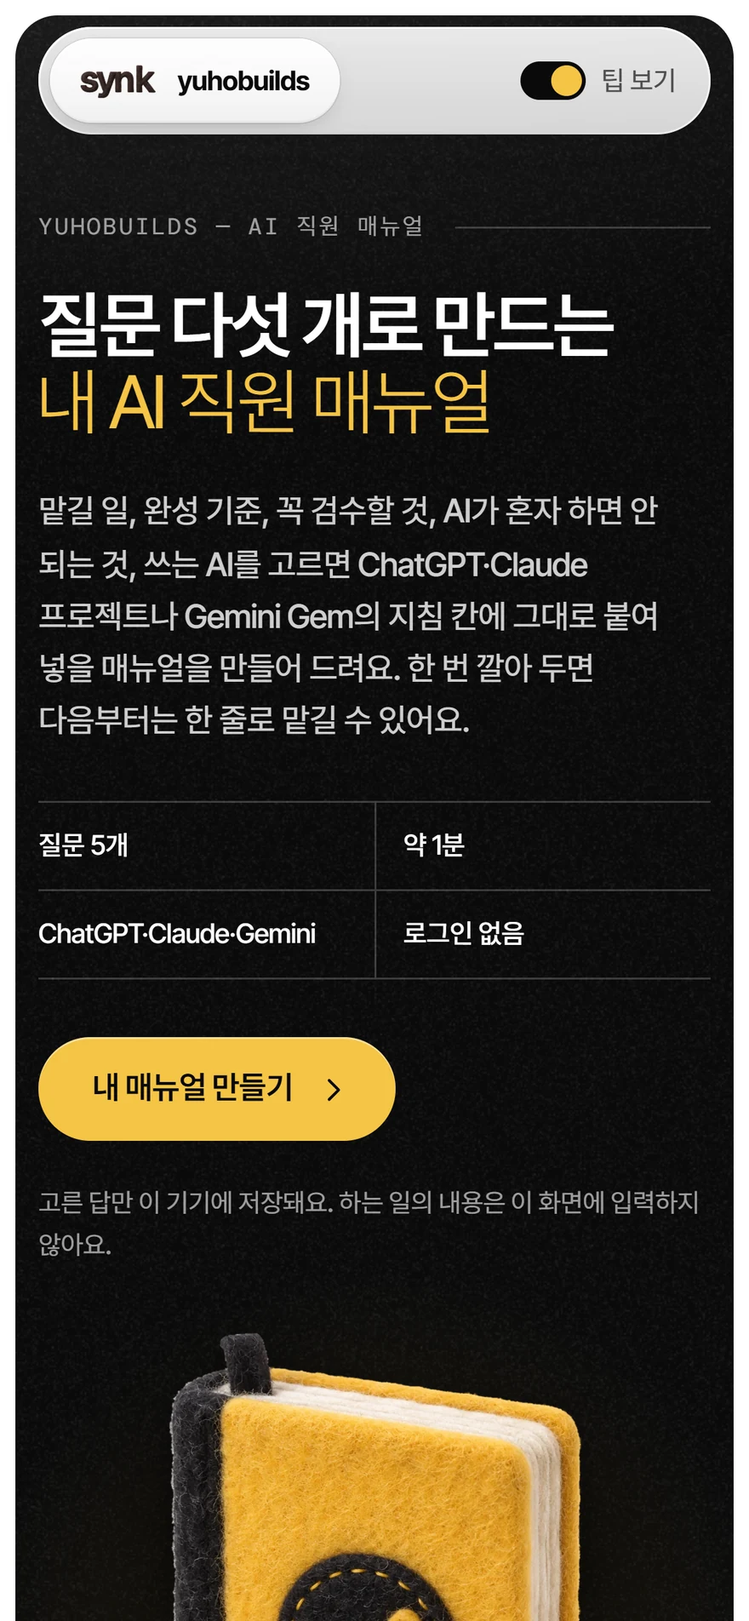
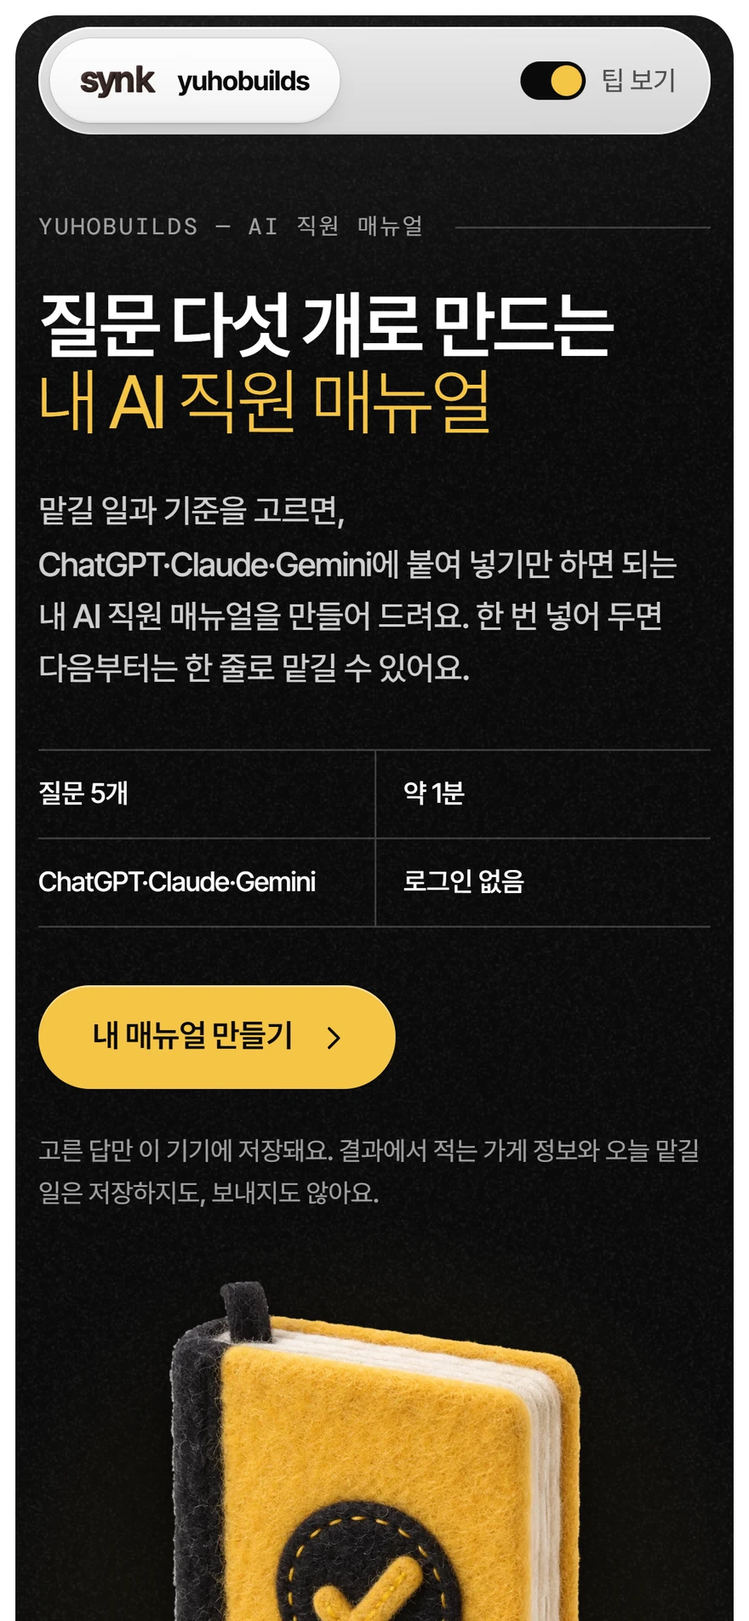
feat(tools): AI 직원 매뉴얼 — ChatGPT 넣어 두기 그림 안내, 영상 끝 화면 다시 찍어 렌더
- 유호님 10-07 새벽: 「나도 실제 앱 화면에 누를곳을 표시할 그림을 원해. 니가 컴퓨터 조작으로 캡쳐해도 좋아」, 「영상 끝 화면도 다시 찍어서 렌더할게」.
- 그림 안내(assets/gpt-guide-1~4.webp)
  - 유호님 계정의 웹 ChatGPT를 휴대폰과 비슷한 폭으로 찍었다. 장면은 사이드바의 ‘프로젝트’ 옆 +, 프로젝트 만들기, 오른쪽 위 ••• → 프로젝트 설정, 지침 칸이다.
  - 개인 항목(사용자 GPT·고정 대화·최근 대화·마우스 표시)은 가렸고, 누를 곳에 버터 테를 둘렀다.
  - 찍으려고 유호님 승인으로 「SNS 게시물 직원」 프로젝트를 하나 만들었고, 지침 칸은 비워 뒀다. 원본 캡처는 저장소에 넣지 않았다.
- 화면에서는 넣어 두기 ②·③ 단계 아래에 그림을 두었다. 그림을 누르면 크게 보이고, 그림 출처 한 줄이 붙는다.
- ChatGPT 단계 문구를 실제 화면에 맞췄다: ‘프로젝트’ 옆 + → 이름 → 프로젝트 만들기, 오른쪽 위 더보기(•••).
- 첫 화면 개인정보 문구: 「결과에서 적는 가게 정보와 오늘 맡길 일은 저장하지도, 보내지도 않아요」.
- 영상(yuhobuilds_한줄시켰더니)
  - v4 첫 화면을 다시 찍었다(녹화 스크립트를 v4 결과 화면에 맞춤, 05는 ‘01 써 보기’ 장면).
  - 설명이 짧아져 끝 화면 창의 내림을 -240 → -212로 바꿨다. 이제 시작 단추 윗부분이 창 아래에 걸리지 않는다.
  - A·B를 다시 렌더했다(47.5초). 45초 앞 장면은 이전 판과 같고(0.00%), 소리는 -13.9 LUFS, 최고 -1.5 dBFS 그대로다. 바탕화면 폴더에도 넣었다.
- 시험 67/67(매뉴얼 27 · 계정 5 · computer·meeting 35), 화면 동작 확인 23/23, 가시성 대비 미달 0 · 320px 넘침 0 · 초점 가림 0.

Changed region(s): [[0.0307, 0.3099, 0.9205, 0.7747], [0.2148, 0.7747, 0.7977, 1.0], [0.767, 0.9916, 0.7977, 1.0]]

diff --git a/docs/마케팅/맞춤도구/manual/view.js b/docs/마케팅/맞춤도구/manual/view.js
@@ -143,13 +143,16 @@
 
     const keepDone = multi ? '복사했어요. 이제 쓰는 AI의 지침 칸에 붙여 넣으세요.' : `복사했어요. 이제 ${rec.saves[0].where} 칸에 붙여 넣으세요.`;
     const copyStep = step(1, '매뉴얼을 복사해요', copyRow('manual', '매뉴얼 복사', '매뉴얼', keepDone));
-    const saveSteps = s => s.steps.map((x, i) => step(i + 2, esc(x.t), i === 0 ? `<div class="row opens">${openLink(s)}</div>` : '')).join('');
+    // 그림 안내(10-07): 그 단계 아래에 실제 화면. 누르면 원래 크기로 열린다.
+    const figs = (s, i) => ((s.guide && s.guide.figs) || []).filter(f => f.step === i).map(f => `<figure class="guide-shot"><a href="${esc(f.src)}" target="_blank" rel="noopener"><img src="${esc(f.src)}" width="${f.w}" height="${f.h}" loading="lazy" alt="${esc(f.alt)}"></a><figcaption>${esc(f.cap)}</figcaption></figure>`).join('');
+    const guideNote = s => (s.guide ? `<p class="guide-note">그림은 웹 ${esc(s.label)}를 휴대폰 크기로 찍은 화면이에요(${esc(s.guide.shot.replace(/-/g, '.'))}). 앱이나 화면 설정에 따라 색과 배치가 조금 다를 수 있어요. 그림을 누르면 크게 보여요.</p>` : '');
+    const saveSteps = s => s.steps.map((x, i) => step(i + 2, esc(x.t), `${i === 0 ? `<div class="row opens">${openLink(s)}</div>` : ''}${figs(s, i)}`)).join('');
     let keepBody;
     if (!multi) {
       const s = rec.saves[0];
-      keepBody = `<p class="what">${esc(s.what)}</p><ol class="usesteps">${copyStep}${saveSteps(s)}</ol><p class="path-note">잘 들어갔는지 보려면 그 ${esc(s.place)}의 새 채팅에서 “이 매뉴얼에서 내가 허락해야 하는 일을 말해 줘”라고 물어보세요. 사람 차례가 그대로 나오면 잘 들어간 거예요.</p>${s.note && !quick ? `<p class="path-note">${esc(s.note.t)}</p>` : ''}<p class="path-src">메뉴 순서는 ${esc(s.label)} 공식 도움말 기준이에요${badge(s.steps[0].src)} 화면 언어나 업데이트에 따라 이름이 조금 다를 수 있어요.</p>`;
+      keepBody = `<p class="what">${esc(s.what)}</p><ol class="usesteps">${copyStep}${saveSteps(s)}</ol>${guideNote(s)}<p class="path-note">잘 들어갔는지 보려면 그 ${esc(s.place)}의 새 채팅에서 “이 매뉴얼에서 내가 허락해야 하는 일을 말해 줘”라고 물어보세요. 사람 차례가 그대로 나오면 잘 들어간 거예요.</p>${s.note && !quick ? `<p class="path-note">${esc(s.note.t)}</p>` : ''}<p class="path-src">메뉴 순서는 ${esc(s.label)} 공식 도움말 기준이에요${badge(s.steps[0].src)} 화면 언어나 업데이트에 따라 이름이 조금 다를 수 있어요.</p>`;
     } else {
-      keepBody = `<p class="what">ChatGPT·Claude는 ‘프로젝트’, Gemini는 ‘Gem’이라는 일 전용 공간이 있어요. 그 공간의 지침 칸에 매뉴얼을 넣어 두면, 새 채팅을 열 때마다 AI가 먼저 읽어요.</p><ol class="usesteps">${copyStep}</ol>${rec.saves.map((s, j) => `<details class="appbox"${j === 0 ? ' open' : ''}><summary>${esc(s.label)}에 넣기</summary><ol class="usesteps">${saveSteps(s)}</ol></details>`).join('')}<p class="path-src">메뉴 순서는 각 AI의 공식 도움말 기준이에요${badge(rec.saves[0].steps[0].src)} 화면 언어나 업데이트에 따라 이름이 조금 다를 수 있어요.</p>`;
+      keepBody = `<p class="what">ChatGPT·Claude는 ‘프로젝트’, Gemini는 ‘Gem’이라는 일 전용 공간이 있어요. 그 공간의 지침 칸에 매뉴얼을 넣어 두면, 새 채팅을 열 때마다 AI가 먼저 읽어요.</p><ol class="usesteps">${copyStep}</ol>${rec.saves.map((s, j) => `<details class="appbox"${j === 0 ? ' open' : ''}><summary>${esc(s.label)}에 넣기</summary><ol class="usesteps">${saveSteps(s)}</ol>${guideNote(s)}</details>`).join('')}<p class="path-src">메뉴 순서는 각 AI의 공식 도움말 기준이에요${badge(rec.saves[0].steps[0].src)} 화면 언어나 업데이트에 따라 이름이 조금 다를 수 있어요.</p>`;
     }
     const keepPanel = `<div class="path" id="path-keep" role="tabpanel" aria-labelledby="tab-keep" data-panel="keep"${P === 'keep' ? '' : ' hidden'}>${keepBody}</div>`;
 

diff --git a/docs/마케팅/맞춤도구/manual/rules.js b/docs/마케팅/맞춤도구/manual/rules.js
@@ -111,9 +111,20 @@
     chatgpt: {
       label: 'ChatGPT', place: '프로젝트', where: 'ChatGPT 프로젝트의 ‘지침’', open: 'https://chatgpt.com/',
       what: '프로젝트는 ChatGPT 안에 만드는 일 전용 폴더예요. 폴더의 ‘지침’ 칸에 매뉴얼을 넣어 두면, 그 폴더에서 새 채팅을 열 때마다 ChatGPT가 먼저 읽어요.',
+      // 그림 안내(10-07 유호님 「실제 앱 화면에 누를곳을 표시할 그림을 원해」): 웹 ChatGPT를 휴대폰 폭으로 찍고, 개인 항목은 가리고 누를 곳에 버터 테.
+      // step = steps의 몇 번째 단계 아래에 보일지. 그림 파일은 docs/마케팅/맞춤도구/assets/gpt-guide-*.webp
+      guide: {
+        shot: '2026-10-07',
+        figs: [
+          { step: 0, src: 'assets/gpt-guide-1-sidebar.webp', w: 643, h: 600, cap: '사이드바가 안 보이면 왼쪽 위 단추로 열고, ‘프로젝트’ 옆 +를 눌러요.', alt: 'ChatGPT 사이드바. 왼쪽 위 사이드바 단추와 ‘프로젝트’ 줄 오른쪽의 + 단추에 노란 테가 있다.' },
+          { step: 0, src: 'assets/gpt-guide-2-create.webp', w: 900, h: 459, cap: '이름을 적고 ‘프로젝트 만들기’를 눌러요.', alt: '프로젝트 만들기 창. 프로젝트 이름 칸과 프로젝트 만들기 단추에 노란 테가 있다.' },
+          { step: 1, src: 'assets/gpt-guide-3-menu.webp', w: 533, h: 230, cap: '프로젝트 화면 오른쪽 위 •••를 누르고 ‘프로젝트 설정’을 골라요.', alt: '프로젝트 화면. 오른쪽 위 더보기 단추와 펼쳐진 메뉴의 프로젝트 설정에 노란 테가 있다.' },
+          { step: 1, src: 'assets/gpt-guide-4-instructions.webp', w: 900, h: 435, cap: '‘지침’ 칸에 복사한 매뉴얼을 붙여 넣어요.', alt: '프로젝트 설정 창. 지침 칸에 노란 테가 있다.' },
+        ],
+      },
       steps: [
-        r('사이드바(지난 채팅 목록이 있는 메뉴)에서 ‘새 프로젝트’를 누르고 이름을 적어요. 예: {직원}', 'oa-projects'),
-        r('프로젝트 화면의 더보기(•••) → ‘프로젝트 설정’을 열고, ‘지침’ 칸에 매뉴얼을 붙여 넣어 저장해요.', 'oa-projects'),
+        r('사이드바(지난 채팅 목록이 있는 메뉴)에서 ‘프로젝트’ 옆 +를 누르고, 이름을 적어 ‘프로젝트 만들기’를 눌러요. 예: {직원}', 'oa-projects'),
+        r('프로젝트 화면 오른쪽 위 더보기(•••) → ‘프로젝트 설정’을 열고, ‘지침’ 칸에 매뉴얼을 붙여 넣어 저장해요.', 'oa-projects'),
         r('다음부터는 그 프로젝트 안에서 새 채팅을 열고 한 줄만 보내요.', 'oa-projects'),
       ],
       note: r('계정 전체의 ‘사용자 지정 지침(Custom instructions)’에는 넣지 마세요. 모든 대화에 섞이고, 무료는 1,500자까지예요. 프로젝트 지침은 그 프로젝트 안에서만 쓰이고 사용자 지정 지침보다 우선해요.', 'oa-custom'),

diff --git a/docs/마케팅/맞춤도구/manual/theme.css b/docs/마케팅/맞춤도구/manual/theme.css
@@ -297,6 +297,14 @@ a{color:var(--ink)}
 .usesteps .task textarea::placeholder{color:rgba(10,10,10,.45)}
 .usesteps .task textarea:focus{outline:none;box-shadow:inset 0 0 0 2px var(--ink)}
 .path .goto{margin:4px 0 0 -14px;min-height:44px}
+/* 그림 안내(10-07): 실제 ChatGPT 화면에 버터 테. 어두운 화면이라 판 위에 검은 사진으로 놓고, 누르면 크게 */
+.guide-shot{margin:12px 0 0}
+.guide-shot a{display:block;border-radius:14px;overflow:hidden;background:#000;box-shadow:0 0 0 1px var(--line)}
+.guide-shot img{display:block;width:100%;height:auto}
+.guide-shot figcaption{margin:6px 2px 0;font-size:14px;line-height:1.5;color:var(--ink-2)}
+.guide-note{margin:12px 0 0;max-width:42em;font-size:13px;line-height:1.55;color:var(--ink-3)}
+@media(min-width:701px){.guide-shot{max-width:440px}}
+@media print{.guide-shot a{box-shadow:inset 0 0 0 1px #999}}
 /* 컴퓨터에서 이어 하기: 흰 판 한 줄 + 링크 복사 */
 .pc{margin:14px 0 0;padding:16px 18px;border-radius:18px;background:#fff;box-shadow:0 0 0 1px var(--line)}
 .pc p{margin:0;max-width:42em;font-size:14.5px;line-height:1.6;color:var(--ink-2)}

diff --git a/docs/마케팅/맞춤도구/manual/content.js b/docs/마케팅/맞춤도구/manual/content.js
@@ -286,7 +286,7 @@
       lead: '맡길 일과 기준을 고르면, ChatGPT·Claude·Gemini에 붙여 넣기만 하면 되는 내 AI 직원 매뉴얼을 만들어 드려요. 한 번 넣어 두면 다음부터는 한 줄로 맡길 수 있어요.',
       // 좁은 화면에서 「Ge/mini」처럼 단어 가운데가 끊기지 않게 가운뎃점 뒤에 폭 없는 띄움(U+200B)을 둔다
       meta: ['질문 5개', '약 1분', 'ChatGPT·Claude·Gemini', '로그인 없음'],
-      privacy: '고른 답만 이 기기에 저장돼요. 결과에서 적는 가게·브랜드 정보는 저장하지도, 보내지도 않아요.',
+      privacy: '고른 답만 이 기기에 저장돼요. 결과에서 적는 가게 정보와 오늘 맡길 일은 저장하지도, 보내지도 않아요.',
       start: '내 매뉴얼 만들기',
     },
     steps, SOURCES, TIPS, COMPONENTS,

diff --git a/docs/마케팅/yuhobuilds_한줄시켰더니_20261003/index.html b/docs/마케팅/yuhobuilds_한줄시켰더니_20261003/index.html
@@ -568,7 +568,8 @@
       M.focus(tl, '#s11-vf', s11in + 0.1);
       M.photo(tl, '#s11-face', s11in + 0.16, { y: -70 });
       M.fade(tl, '#s11-name', s11in + 0.42);
-      tl.fromTo('#s11-shot img', { y: 0 }, { y: -240, duration: 1.8, ease: 'power2.inOut', immediateRender: false }, s11in + 0.5);
+      // 10-07 첫 화면 다시 찍음(설명이 짧아짐): 제목 둘째 줄부터 메타 줄까지 보이고 시작 단추는 창 밖(-212)
+      tl.fromTo('#s11-shot img', { y: 0 }, { y: -212, duration: 1.8, ease: 'power2.inOut', immediateRender: false }, s11in + 0.5);
       M.press(tl, '#s11-q5, #s11-free, #s11-link', T('c5', 0), { stagger: 0.12, dur: 0.28 });
       M.punch(tl, '#s11-link', T('c5', 2), { to: 1.08 });
       M.fade(tl, '#s11-foot', EN('c5') + 0.5);

diff --git a/docs/마케팅/맞춤도구/README.md b/docs/마케팅/맞춤도구/README.md
@@ -60,7 +60,7 @@
 | `computer/guide/guide.html`, `og.html` | 설명서 PDF와 링크 미리보기 이미지의 원고 |
 | `computer/rules.test.js` | 추천기준의 약속·제작 절차 검사 시험 19개 |
 | `meeting/` | 회의 기록 맞춤 정리(2026-09-29). 같은 틀: 탐색노트·추천기준·content·rules·view·index·시험 16개. `keep/`은 GPT가 만든 11쪽 PDF·연습 ZIP(synk.im 2026-09-24 공개본)을 바이트 그대로 싣는 곳 |
-| `manual/` | AI 직원 매뉴얼 만들기(2026-10-03, yuhobuilds 「AI한테 한 줄 시켰더니」). 같은 틀에 도구 쪽 색 `theme.css`(SNS 키트 `builds`: 검정·버터)를 더했다. 질문 정확히 5개, `builds-index.html`이 `dist/builds/index.html`이 되어 synk.im/builds/에서 바로 넘어간다. 시험 18개. 아직 배포 전. **10-06 마감:** 유호님 「ui ux가 좀 촌스럽고 특히 글래시한 느낌이 좀 많이 아쉬운데? … 마감 제대로」 → 이 도구만 유리 선택 카드·유리 단추를 걷고 실제 펠트 판(`assets/fb-*`, 펠트 부품 `assets/builds`)으로 바꿨다. 선택지 크림 판 → 고르면 연한 버터 판 + 버터 체크 배지, 주 단추 검은 펠트, 보조 단추·칩·보기 고르기 크림/버터 펠트, 머리줄·진행 막대·구획의 실땀 줄(작게는 점선처럼 보임)은 가는 선·검은 막대로, 팁은 테두리 없는 옅은 면. 컴퓨터·회의 도구는 그대로(유리). **10-06 저녁 다시 마감:** 유호님 「사이트 제대로 찾아보고 우리 브랜드키트에 적용 한거 맞아?」 — 낮 판은 synk.im 홈페이지를 보지 않고 만들었다. 공개 중인 synk.im 여섯 사이트(SYNK·LAB·SHIFT·PULSE·PATH·창업자)를 찍고 `homepage.css` 값을 그대로 옮겨 `theme.css`를 다시 썼다. 첫 화면·결과 머리는 검은 브랜드 면(결 `field-grain` + 왼쪽 위 빛) 위에 펠트 매뉴얼 한 권(`assets/hero-manual.webp`), 제목은 굵은 첫 줄 + 가는 버터 둘째 줄, 모노 대문자 꼬리표 + 가는 선. 머리줄·질문 이동 바·결과 하단 바는 떠 있는 흰 유리 캡슐, 선택지는 회색 판 → 고르면 맑은 유리 알(잉크 테) + 바닥에 맺히는 버터 빛 + 버터 펠트 체크 배지(`fb-badge-check`, 다른 fb-* 웹 사본은 이제 싣지 않는다). 단추는 검은 알약 하나 + 밑줄 글자, 결과 구획은 모노 번호 + 큰 제목, 목록은 잉크 선 + 가는 선, 펼치는 줄은 + 단추. 링크 미리보기(`guide/og.html`)도 같은 언어. 가는 줄의 라틴 글자용으로 Inter Tight 400을 더 싣는다(`build.mjs`). **10-06 밤 효과 시험·v2:** 유호님 「영상속 내용을 우리 synk 만의 장점(개인화)를 제대로 살려서 … 기존 프롬프트·pdf보다 더 기능적이고 효과가 좋은지 … 사용하기 어렵지않은지 확인」 → 같은 한 줄 요청을 매뉴얼 없음·흔한 역할 프롬프트·이 매뉴얼로 ChatGPT(Codex 구독)에 맡기고 조건을 가려 채점했다([추천기준 §11](manual/추천기준.md)). 첫 판은 결과물이 오히려 나빴다(질문만 돌려주기, 차가운 답장) → 결과물이 먼저·답장 공감·개인정보 범위·인스타 본문 링크 규칙을 고치고, 결과에 내 정보 넣기(선택 다섯 칸, 저장·전송 없음)·쓰는 순서 세 칸·인스타 앱 안 안내를 더했다(`manual-rules-v3`). 결과: 안전 항목은 모든 조건이 같았고, 사진 권리 확인·해시태그 다섯 개 한도·세 줄 보고·내 정보 반영은 고친 매뉴얼만 했다. 글맛은 강한 AI에게 그냥 맡긴 것과 비슷하거나 낮다(시험 기록 `manual/효과시험_20261006/`) 10-06 밤 v4(유호님 「사용자입장에서 최대한 쉽게 … 친절해야해」): 결과 머리 바로 아래 ‘써 보기’ — 가게 정보(이름·늘 쓰는 정보, 나머지는 더 적기) → 바로 써 보기(오늘 맡길 일 적고 붙일 글 복사 → AI 열기 → 새 채팅에 붙여 넣기) / 한 번 넣어 두기(쉬운 말 한 줄 + 단계마다 단추). 바로 써 보기도 넣어 두기와 같은 결과였고(4·5차, 추천기준 §12), 처음 쓰는 사람 검토 세 번(GPT, 추천기준 §13)으로 고쳤다. |
+| `manual/` | AI 직원 매뉴얼 만들기(2026-10-03, yuhobuilds 「AI한테 한 줄 시켰더니」). 같은 틀에 도구 쪽 색 `theme.css`(SNS 키트 `builds`: 검정·버터)를 더했다. 질문 정확히 5개, `builds-index.html`이 `dist/builds/index.html`이 되어 synk.im/builds/에서 바로 넘어간다. 시험 18개. 아직 배포 전. **10-06 마감:** 유호님 「ui ux가 좀 촌스럽고 특히 글래시한 느낌이 좀 많이 아쉬운데? … 마감 제대로」 → 이 도구만 유리 선택 카드·유리 단추를 걷고 실제 펠트 판(`assets/fb-*`, 펠트 부품 `assets/builds`)으로 바꿨다. 선택지 크림 판 → 고르면 연한 버터 판 + 버터 체크 배지, 주 단추 검은 펠트, 보조 단추·칩·보기 고르기 크림/버터 펠트, 머리줄·진행 막대·구획의 실땀 줄(작게는 점선처럼 보임)은 가는 선·검은 막대로, 팁은 테두리 없는 옅은 면. 컴퓨터·회의 도구는 그대로(유리). **10-06 저녁 다시 마감:** 유호님 「사이트 제대로 찾아보고 우리 브랜드키트에 적용 한거 맞아?」 — 낮 판은 synk.im 홈페이지를 보지 않고 만들었다. 공개 중인 synk.im 여섯 사이트(SYNK·LAB·SHIFT·PULSE·PATH·창업자)를 찍고 `homepage.css` 값을 그대로 옮겨 `theme.css`를 다시 썼다. 첫 화면·결과 머리는 검은 브랜드 면(결 `field-grain` + 왼쪽 위 빛) 위에 펠트 매뉴얼 한 권(`assets/hero-manual.webp`), 제목은 굵은 첫 줄 + 가는 버터 둘째 줄, 모노 대문자 꼬리표 + 가는 선. 머리줄·질문 이동 바·결과 하단 바는 떠 있는 흰 유리 캡슐, 선택지는 회색 판 → 고르면 맑은 유리 알(잉크 테) + 바닥에 맺히는 버터 빛 + 버터 펠트 체크 배지(`fb-badge-check`, 다른 fb-* 웹 사본은 이제 싣지 않는다). 단추는 검은 알약 하나 + 밑줄 글자, 결과 구획은 모노 번호 + 큰 제목, 목록은 잉크 선 + 가는 선, 펼치는 줄은 + 단추. 링크 미리보기(`guide/og.html`)도 같은 언어. 가는 줄의 라틴 글자용으로 Inter Tight 400을 더 싣는다(`build.mjs`). **10-06 밤 효과 시험·v2:** 유호님 「영상속 내용을 우리 synk 만의 장점(개인화)를 제대로 살려서 … 기존 프롬프트·pdf보다 더 기능적이고 효과가 좋은지 … 사용하기 어렵지않은지 확인」 → 같은 한 줄 요청을 매뉴얼 없음·흔한 역할 프롬프트·이 매뉴얼로 ChatGPT(Codex 구독)에 맡기고 조건을 가려 채점했다([추천기준 §11](manual/추천기준.md)). 첫 판은 결과물이 오히려 나빴다(질문만 돌려주기, 차가운 답장) → 결과물이 먼저·답장 공감·개인정보 범위·인스타 본문 링크 규칙을 고치고, 결과에 내 정보 넣기(선택 다섯 칸, 저장·전송 없음)·쓰는 순서 세 칸·인스타 앱 안 안내를 더했다(`manual-rules-v3`). 결과: 안전 항목은 모든 조건이 같았고, 사진 권리 확인·해시태그 다섯 개 한도·세 줄 보고·내 정보 반영은 고친 매뉴얼만 했다. 글맛은 강한 AI에게 그냥 맡긴 것과 비슷하거나 낮다(시험 기록 `manual/효과시험_20261006/`) 10-06 밤 v4(유호님 「사용자입장에서 최대한 쉽게 … 친절해야해」): 결과 머리 바로 아래 ‘써 보기’ — 가게 정보(이름·늘 쓰는 정보, 나머지는 더 적기) → 바로 써 보기(오늘 맡길 일 적고 붙일 글 복사 → AI 열기 → 새 채팅에 붙여 넣기) / 한 번 넣어 두기(쉬운 말 한 줄 + 단계마다 단추). 바로 써 보기도 넣어 두기와 같은 결과였고(4·5차, 추천기준 §12), 처음 쓰는 사람 검토 세 번(GPT, 추천기준 §13)으로 고쳤다. 10-07 새벽: ChatGPT 넣어 두기에 실제 화면 그림 네 장(유호님 계정 웹 ChatGPT, 개인 항목 가림, `assets/gpt-guide-*.webp`). |
 | `assets/` | synk.im 승인 자산 사본(로고·실땀·펠트 바탕·아이콘)과 펠트 노트북 축소본(원본: Codex 생성 1254px, 2026-09-19 홈페이지 아이콘 제작 기록), 회의 도구 그림(`meeting-hero.webp`: synk.im `assets/shift-workflow-planning-20260919.webp` 축소본), 펠트 스티커(`sticker-*.webp`: synk.im `assets/loom-*-20260918.webp` 축소본) |
 | `build.mjs`, `serve.mjs` | 올릴 폴더 조립(폰트 줄이기·PDF·미리보기 이미지·지문)과 로컬 미리보기 |
 | `dist/` | 빌드 결과. `dist/brief/computer/`가 synk.im `/brief/computer/`에 그대로 올라간다 |

diff --git a/docs/마케팅/yuhobuilds_한줄시켰더니_20261003/README.md b/docs/마케팅/yuhobuilds_한줄시켰더니_20261003/README.md
@@ -4,7 +4,7 @@
 
 2026-10-03 유호님 요청 「ep01도 gpt로 만든거라 좀 별로같아. 니 스타일데로 아까 알려준 방식 잘 적용해서 하나 만들어봐줄래? 그리고 목소리는 타입캐스트에 내 목소리 학습시킨거있어 그걸 사용해줘봐」로 만들었다. 10-04 시청 뒤 「목소리가 좀 별로네. 차라리 다른 성우 api 쓰는게 낫겠다. 뭔가 부자연스러운데? 흐름이 뚝뚝 끊기는 느낌이야」 → 대본을 한 번에 읽힌 AI 성우로 바꿨다. 10-05 1번 목소리 판을 보고 「다 좋은데 마지막에 이 프롬프트랑 적용방법이나 pdf나 우리 기업이 추구하는 개인화 프로그램의 장점을 여기서 어필할수있으면 좋겠어」 → 끝 문단을 「PDF 대신 내 일에 맞춘 프로그램」으로 새로 썼다. 10-06 「괜찮은데 초반에 몽골어 영상이 만들어지고 이런것보다 브랜딩마케팅용으로 제작한 페북, 인스타, 자동게시 예약이 끝났어요라고 어필하는게 훨씬 시청자입장에서 훨씬 직관적」, 「대본, 목소리, 몽골어검수, 게시문구, 업로드, 예약 이 부분이 약간 지루해서 약간만 빠르게」, 「전체적으로 만족스럽거든?」 → 첫 문단을 고쳤다. **게시 전.**
 
-- 렌더(10-06): `renders/yuhobuilds_한줄시켰더니_A_인스타.mp4`(0초 훅 질문형)·`…_B_유튜브.mp4`(결과 먼저). 47.5초, 1번 목소리(Gemini Charon). 앞 판들은 이 이름으로 덮어썼다(git 밖). 10-06 저녁 유호님 「좋아. 진행해」 → 끝 화면의 맞춤 도구 첫 화면을 새 디자인(synk.im 홈페이지 언어, 맞춤도구 커밋 2c333bb3f·a85d7c39c)으로 다시 찍어 두 판을 다시 렌더했다. 그 앞 장면은 이전 판과 같다(시점 8곳 비교, 크게 다른 픽셀 0~0.15%).
+- 렌더(10-06): `renders/yuhobuilds_한줄시켰더니_A_인스타.mp4`(0초 훅 질문형)·`…_B_유튜브.mp4`(결과 먼저). 47.5초, 1번 목소리(Gemini Charon). 앞 판들은 이 이름으로 덮어썼다(git 밖). 10-06 저녁 유호님 「좋아. 진행해」 → 끝 화면의 맞춤 도구 첫 화면을 새 디자인(synk.im 홈페이지 언어, 맞춤도구 커밋 2c333bb3f·a85d7c39c)으로 다시 찍어 두 판을 다시 렌더했다. 그 앞 장면은 이전 판과 같다(시점 8곳 비교, 크게 다른 픽셀 0~0.15%). 10-07 새벽 유호님 「영상 끝 화면도 다시 찍어서 렌더할게」 → 맞춤 도구 v4(커밋 c6d8a7ce4 뒤 첫 화면 설명·개인정보 문구 바뀜)로 첫 화면을 다시 찍고, 설명이 짧아져 끝 화면 창이 내려가는 거리를 -240 → -212로 맞췄다(제목 둘째 줄부터 메타 줄까지, 시작 단추는 창 밖). 두 판을 다시 렌더했고 45초 앞 장면은 이전 판과 같다(시점 7곳 0.00%), 소리 -13.9 LUFS · 최고 -1.5 dBFS 그대로.
 - HyperFrames `0.8.137`(10-06 저녁 0.8.114에서 올림), `npm run check` 오류 0.
 
 ## 첫 문단 · 브랜딩용 페북·인스타 자동 게시 예약(10-06)
@@ -74,7 +74,7 @@ node 음성/후보_듣기.cjs 음성/후보/듣기_목록.json --copy <바탕화
 ## 화면 재료
 
 - 얼굴(끝 화면 아치·표지): 10-05 유호님 「이 사진을 우리가 만든 내 모델컷 있잖아. 이걸로 바꿔줘」 → 키트의 인터뷰 정면 사진 대신 PULSE 캐스팅북 확정 모델컷(`docs/마케팅/PULSE_AI모델_캐스팅_20260930/raw/M-yuho-hero-v5.png`, 10-01 시안 B 방식)을 아치 비율로 잘라 `assets/media/face/yuho_model_cut.webp`(800×978)로 쓴다.
-- 실제 캡처: Business Suite 예약 목록(`assets/media/shots/bs_scheduled.png`, 10-03 크롬 unmet23), LAB 릴스 렌더본(`lab_reel.mp4`, git 밖 — LAB 폴더 `renders/…_MN_v2.mp4` 사본), 맞춤 도구 화면(`assets/media/tool/01~06`, 로컬 빌드를 390×844@3으로 캡처, `녹화기록.json`. 10-06 저녁 새 디자인으로 다시 찍음).
+- 실제 캡처: Business Suite 예약 목록(`assets/media/shots/bs_scheduled.png`, 10-03 크롬 unmet23), LAB 릴스 렌더본(`lab_reel.mp4`, git 밖 — LAB 폴더 `renders/…_MN_v2.mp4` 사본), 맞춤 도구 화면(`assets/media/tool/01~06`, 로컬 빌드를 390×844@3으로 캡처, `녹화기록.json`. 10-06 저녁 새 디자인으로, 10-07 새벽 v4로 다시 찍음. 영상이 쓰는 것은 `01_start.webp` 하나이고, 05는 v4부터 ‘01 써 보기’ 장면 `05_result_use`).
 - 키트: `node tools/SNS키트_영상연결.js <이 폴더>`로 `assets/synk-kit/`을 다시 넣는다(LAB처럼 `motion.js`만 저장소에 둔다).
 - 효과음: 브랜드 사운드킷 + Pixabay(상업 이용 가능, [CREDITS](assets/media/sound/CREDITS_pixabay.md)).
 
